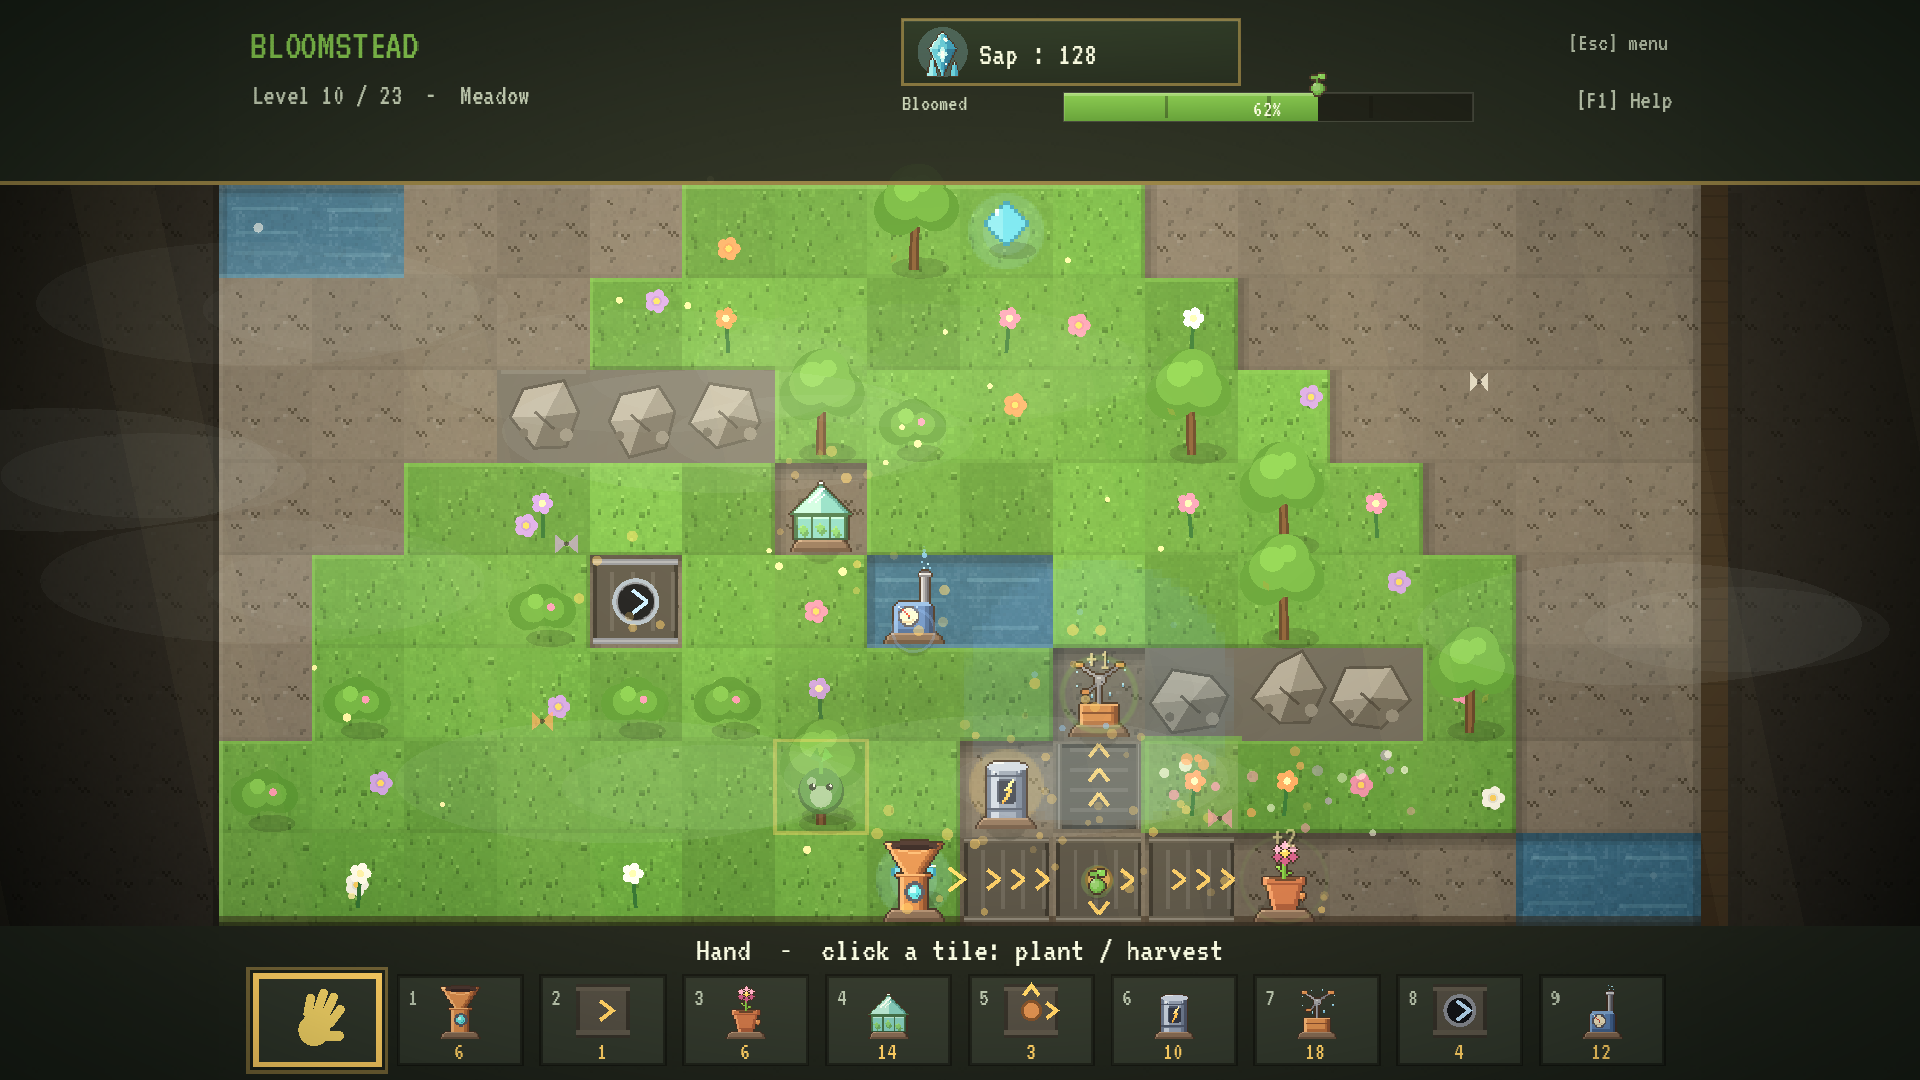
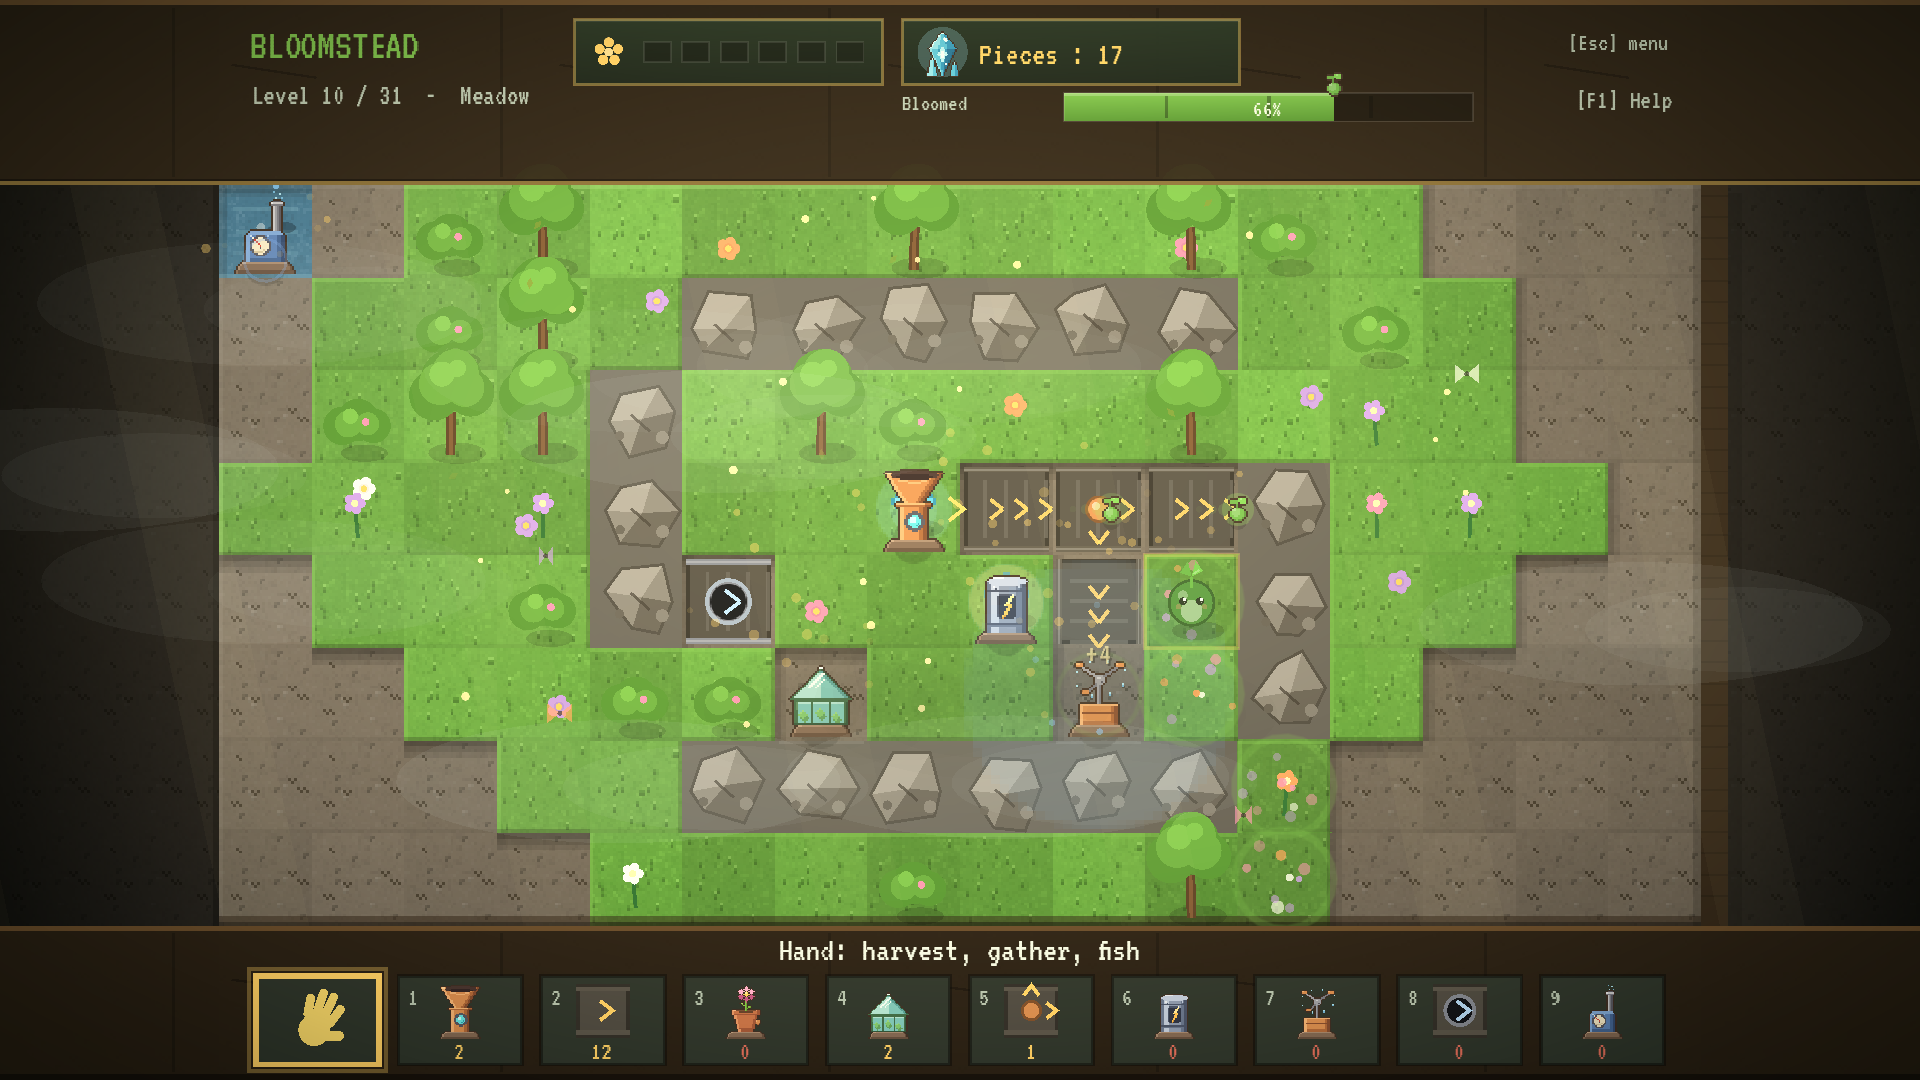
Game page catches up with the strategy pivot: new screenshots and thumbs (plus the living island), fresh capsules, feature list without hand-planting, cards and water reserve described, FR paragraph updated

diff --git a/index.html b/index.html
@@ -104,12 +104,12 @@ a:focus-visible { outline: 2px solid var(--amber); outline-offset: 2px; }
 factory bring the bloom back, tile by tile. The reward is watching a dead world
 turn green again.</p>
 
-<img class="hero" src="media/header_capsule.png" alt="Bloomstead — a blooming meadow with a little sap factory" width="920" height="430">
+<img class="hero" src="media/header_capsule.png" alt="Bloomstead: a blooming meadow with a little sap factory" width="920" height="430">
 
 <h2>Trailer</h2>
 <video controls preload="metadata" poster="media/screenshot_01_factory_meadow.png">
   <source src="media/bloomstead_trailer.mp4" type="video/mp4">
-  Your browser cannot play this video — <a href="media/bloomstead_trailer.mp4">download the trailer</a>.
+  Your browser cannot play this video: <a href="media/bloomstead_trailer.mp4">download the trailer</a>.
 </video>
 <p style="color: var(--dim); font-size: 13.5px; margin-top: 6px;">Trailer music: “Wholesome” by Kevin MacLeod (<a href="https://incompetech.com">incompetech.com</a>), <a href="https://creativecommons.org/licenses/by/4.0/">CC BY 4.0</a>.</p>
 
@@ -119,9 +119,11 @@ turn green again.</p>
   <li>Nine machines that chain into small production lines: extractors, belts, bloomers, greenhouses, splitters, dynamos, sprinklers, tunnels and pumps.</li>
   <li>A handmade campaign, then endless generated islands, all of them solvable. A daily challenge keeps your best times.</li>
   <li>Nine biomes, each with its own palette: meadow, autumn, tundra, dusk, jungle, sakura, emerald, desert and coral.</li>
-  <li>You can also plant by hand. Carry a seed anywhere; the machines do the scale, your hands do the details.</li>
+  <li>Nine level types that change the rule: fixed machine stock, mazes, fishing tides, wasp defense, deliveries, exact-stock puzzles and more. The map tells you which is coming.</li>
+  <li>Challenge cards at the start of a level: pick one optional rule or bonus goal, paid in extra water drops. Skipping is always free.</li>
+  <li>A water reserve paces each level: the drops you have left are your star rating. A living island answers your factory with bloombursts, fishing, buried chests and a golden hour.</li>
   <li>Permanent upgrades, achievements, stats, and a free garden mode with decorations and a photo mode.</li>
-  <li>No timers and no failure. Removing a machine refunds it in full, so you can never get stuck.</li>
+  <li>No fail states. Removing a machine refunds it in full, and an empty reserve only costs stars, never progress.</li>
   <li>English and French, remappable keys, a reduced-motion option, full touch support.</li>
 </ul>
 </section>
@@ -131,17 +133,20 @@ turn green again.</p>
   <a href="media/screenshot_01_factory_meadow.png"><img loading="lazy" src="media/thumbs/screenshot_01_factory_meadow.jpg" alt="A little factory rebloooming a meadow" width="640" height="360"></a>
   <a href="media/screenshot_02_bloom_wave_jungle.png"><img loading="lazy" src="media/thumbs/screenshot_02_bloom_wave_jungle.jpg" alt="Sprinklers firing a bloom wave in the jungle" width="640" height="360"></a>
   <a href="media/screenshot_03_desert.png"><img loading="lazy" src="media/thumbs/screenshot_03_desert.jpg" alt="A conveyor chain crossing the desert" width="640" height="360"></a>
-  <a href="media/screenshot_04_sakura.png"><img loading="lazy" src="media/thumbs/screenshot_04_sakura.jpg" alt="Planting by hand under the sakura" width="640" height="360"></a>
+  <a href="media/screenshot_04_sakura.png"><img loading="lazy" src="media/thumbs/screenshot_04_sakura.jpg" alt="A factory blooming under the sakura petals" width="640" height="360"></a>
   <a href="media/screenshot_05_world_map.png"><img loading="lazy" src="media/thumbs/screenshot_05_world_map.jpg" alt="The world map and its golden path" width="640" height="360"></a>
   <a href="media/screenshot_06_garden.png"><img loading="lazy" src="media/thumbs/screenshot_06_garden.jpg" alt="A fully bloomed garden" width="640" height="360"></a>
+  <a href="media/screenshot_07_living_island.png"><img loading="lazy" src="media/thumbs/screenshot_07_living_island.jpg" alt="The living island: an overcharge, a fishing line and bloombursts" width="640" height="360"></a>
 </div>
 
 <section class="card">
 <h2>En français</h2>
 <p>Le monde s'est éteint. Récolte la sève, assemble de petites machines et laisse ton
-usine faire refleurir la terre, case après case. Neuf machines, neuf biomes, une
-campagne faite main puis des îles à l'infini, un défi du jour, un jardin libre.
-Jamais d'échec : la récompense, c'est de voir le monde reverdir. Le jeu est
+usine faire refleurir la terre, case après case. Ta main ne colorie jamais : chaque
+niveau est un petit casse-tête d'usine, noté par les gouttes d'eau restantes. Neuf
+machines, neuf biomes, neuf types de niveaux, des cartes-défis à choisir en début de
+partie, une campagne faite main puis des îles à l'infini, un défi du jour, un jardin
+libre. Jamais d'échec : la récompense, c'est de voir le monde reverdir. Le jeu est
 entièrement traduit en français.</p>
 </section>
 
